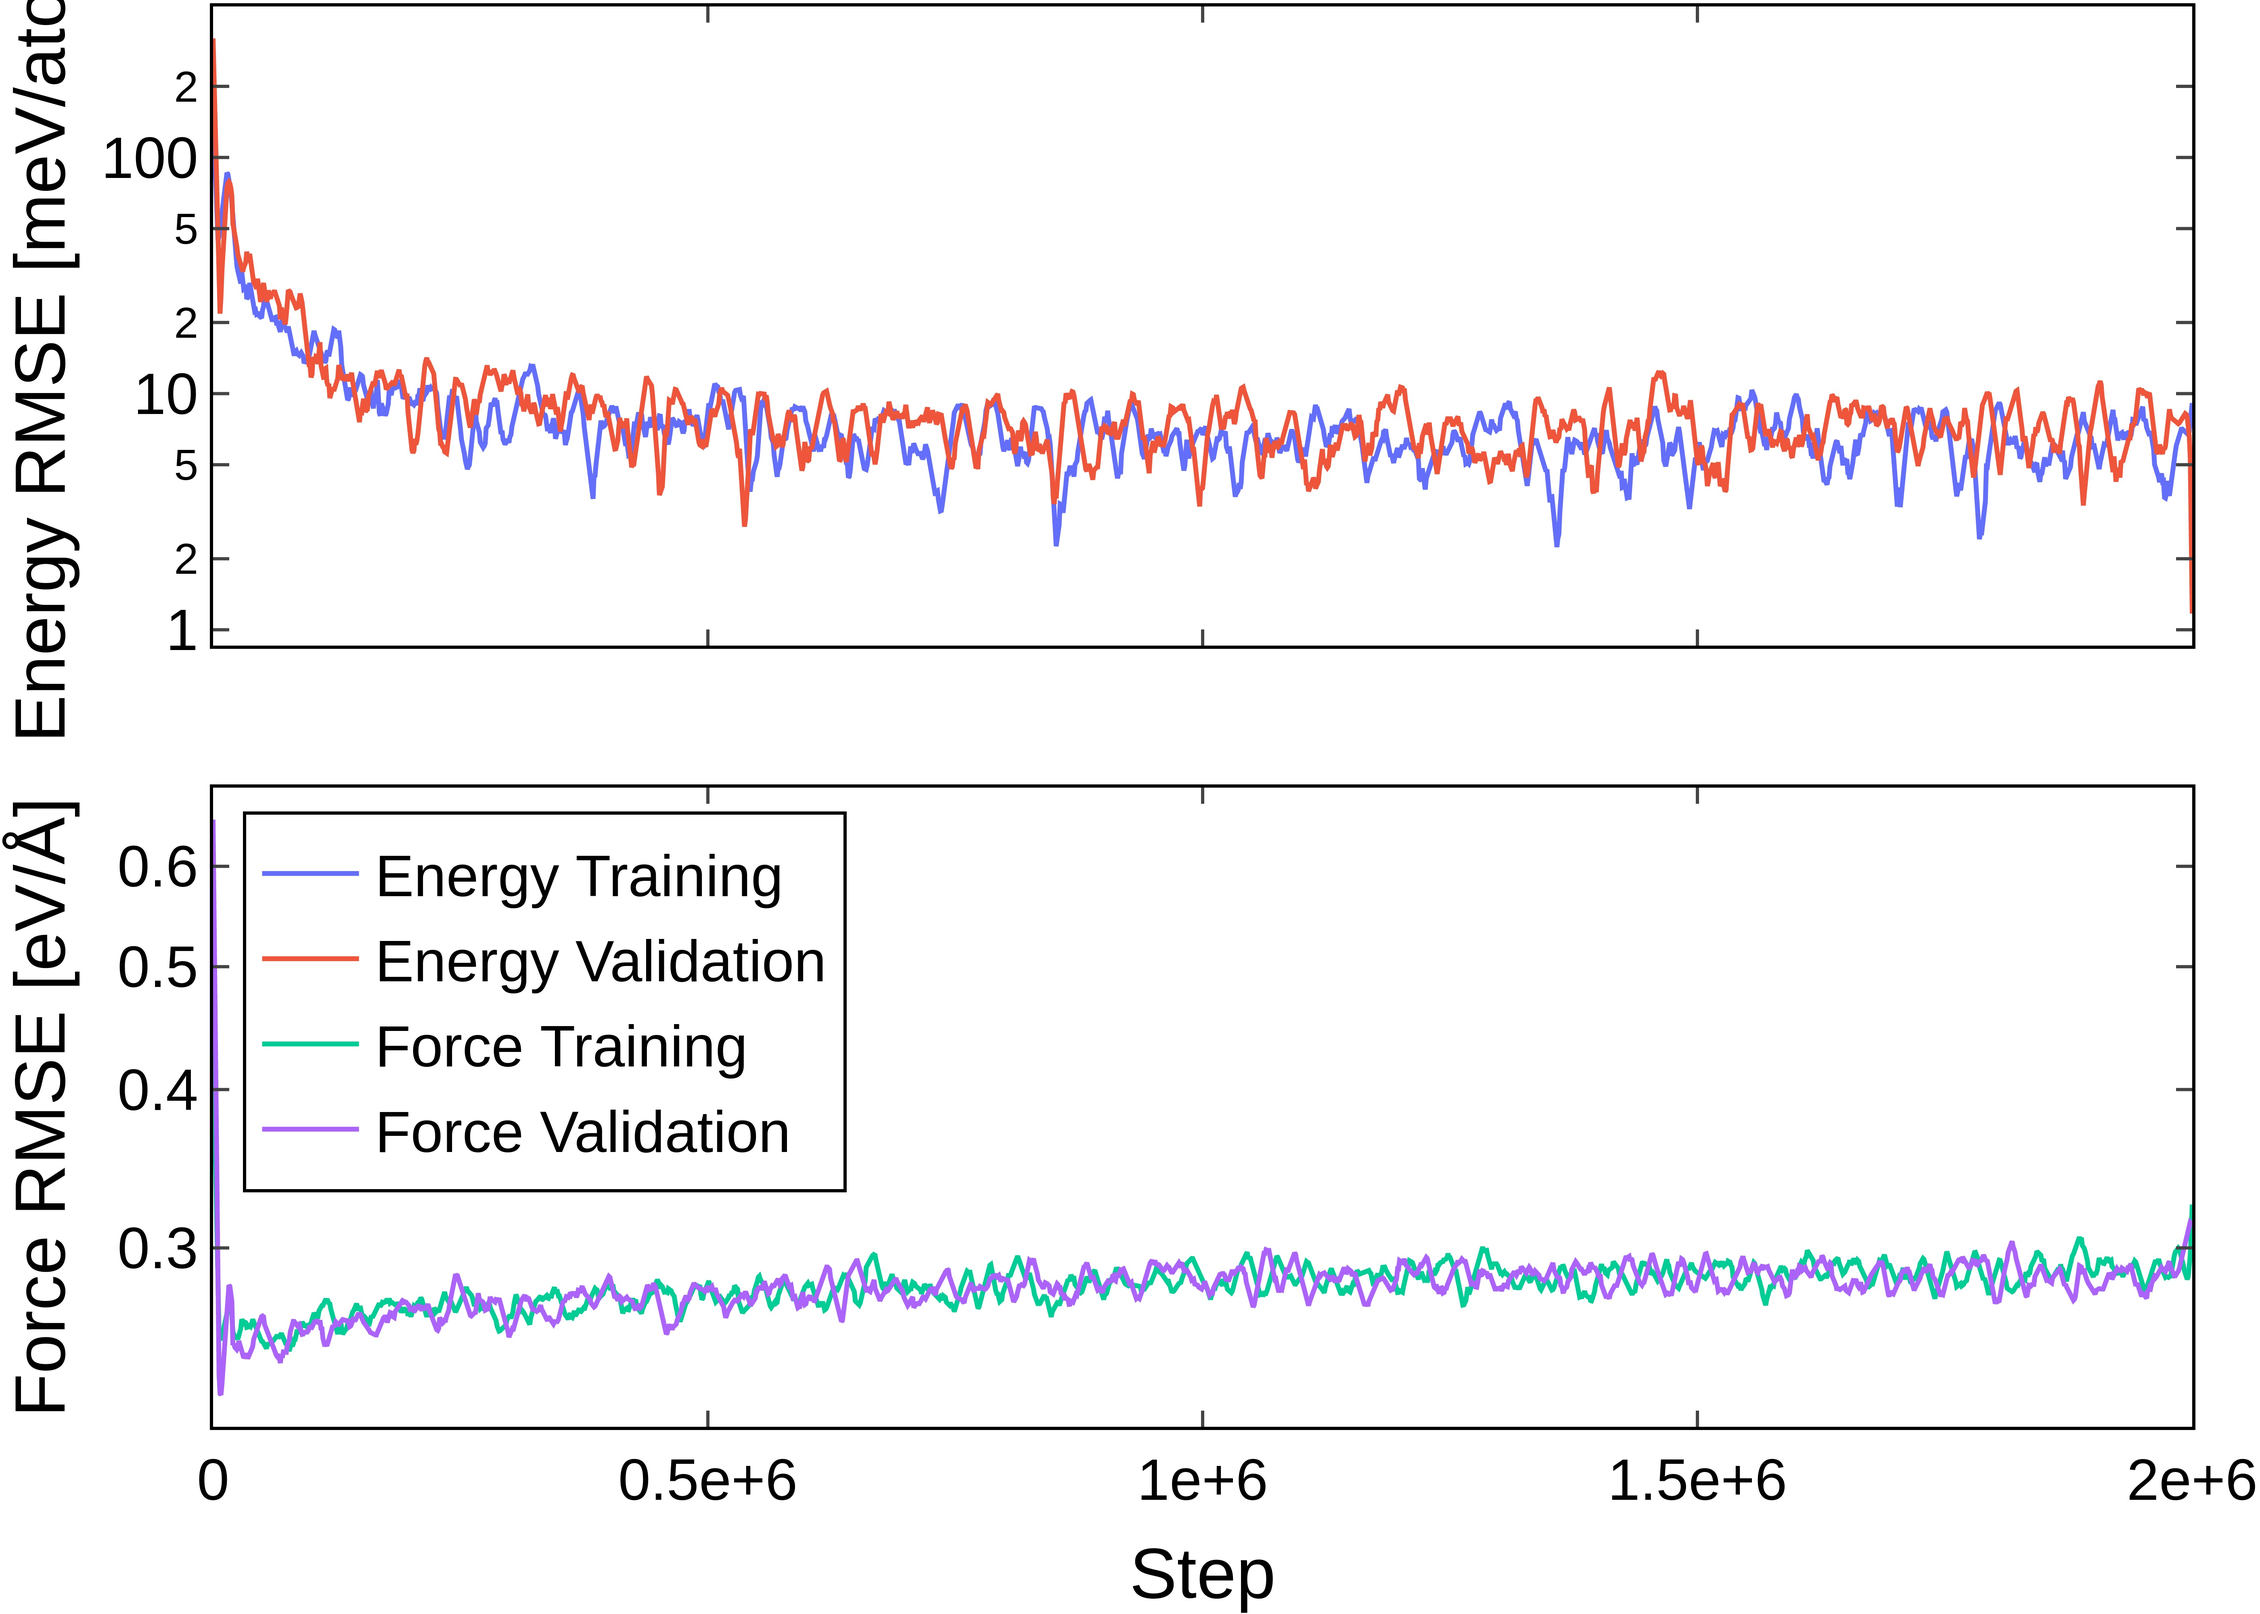
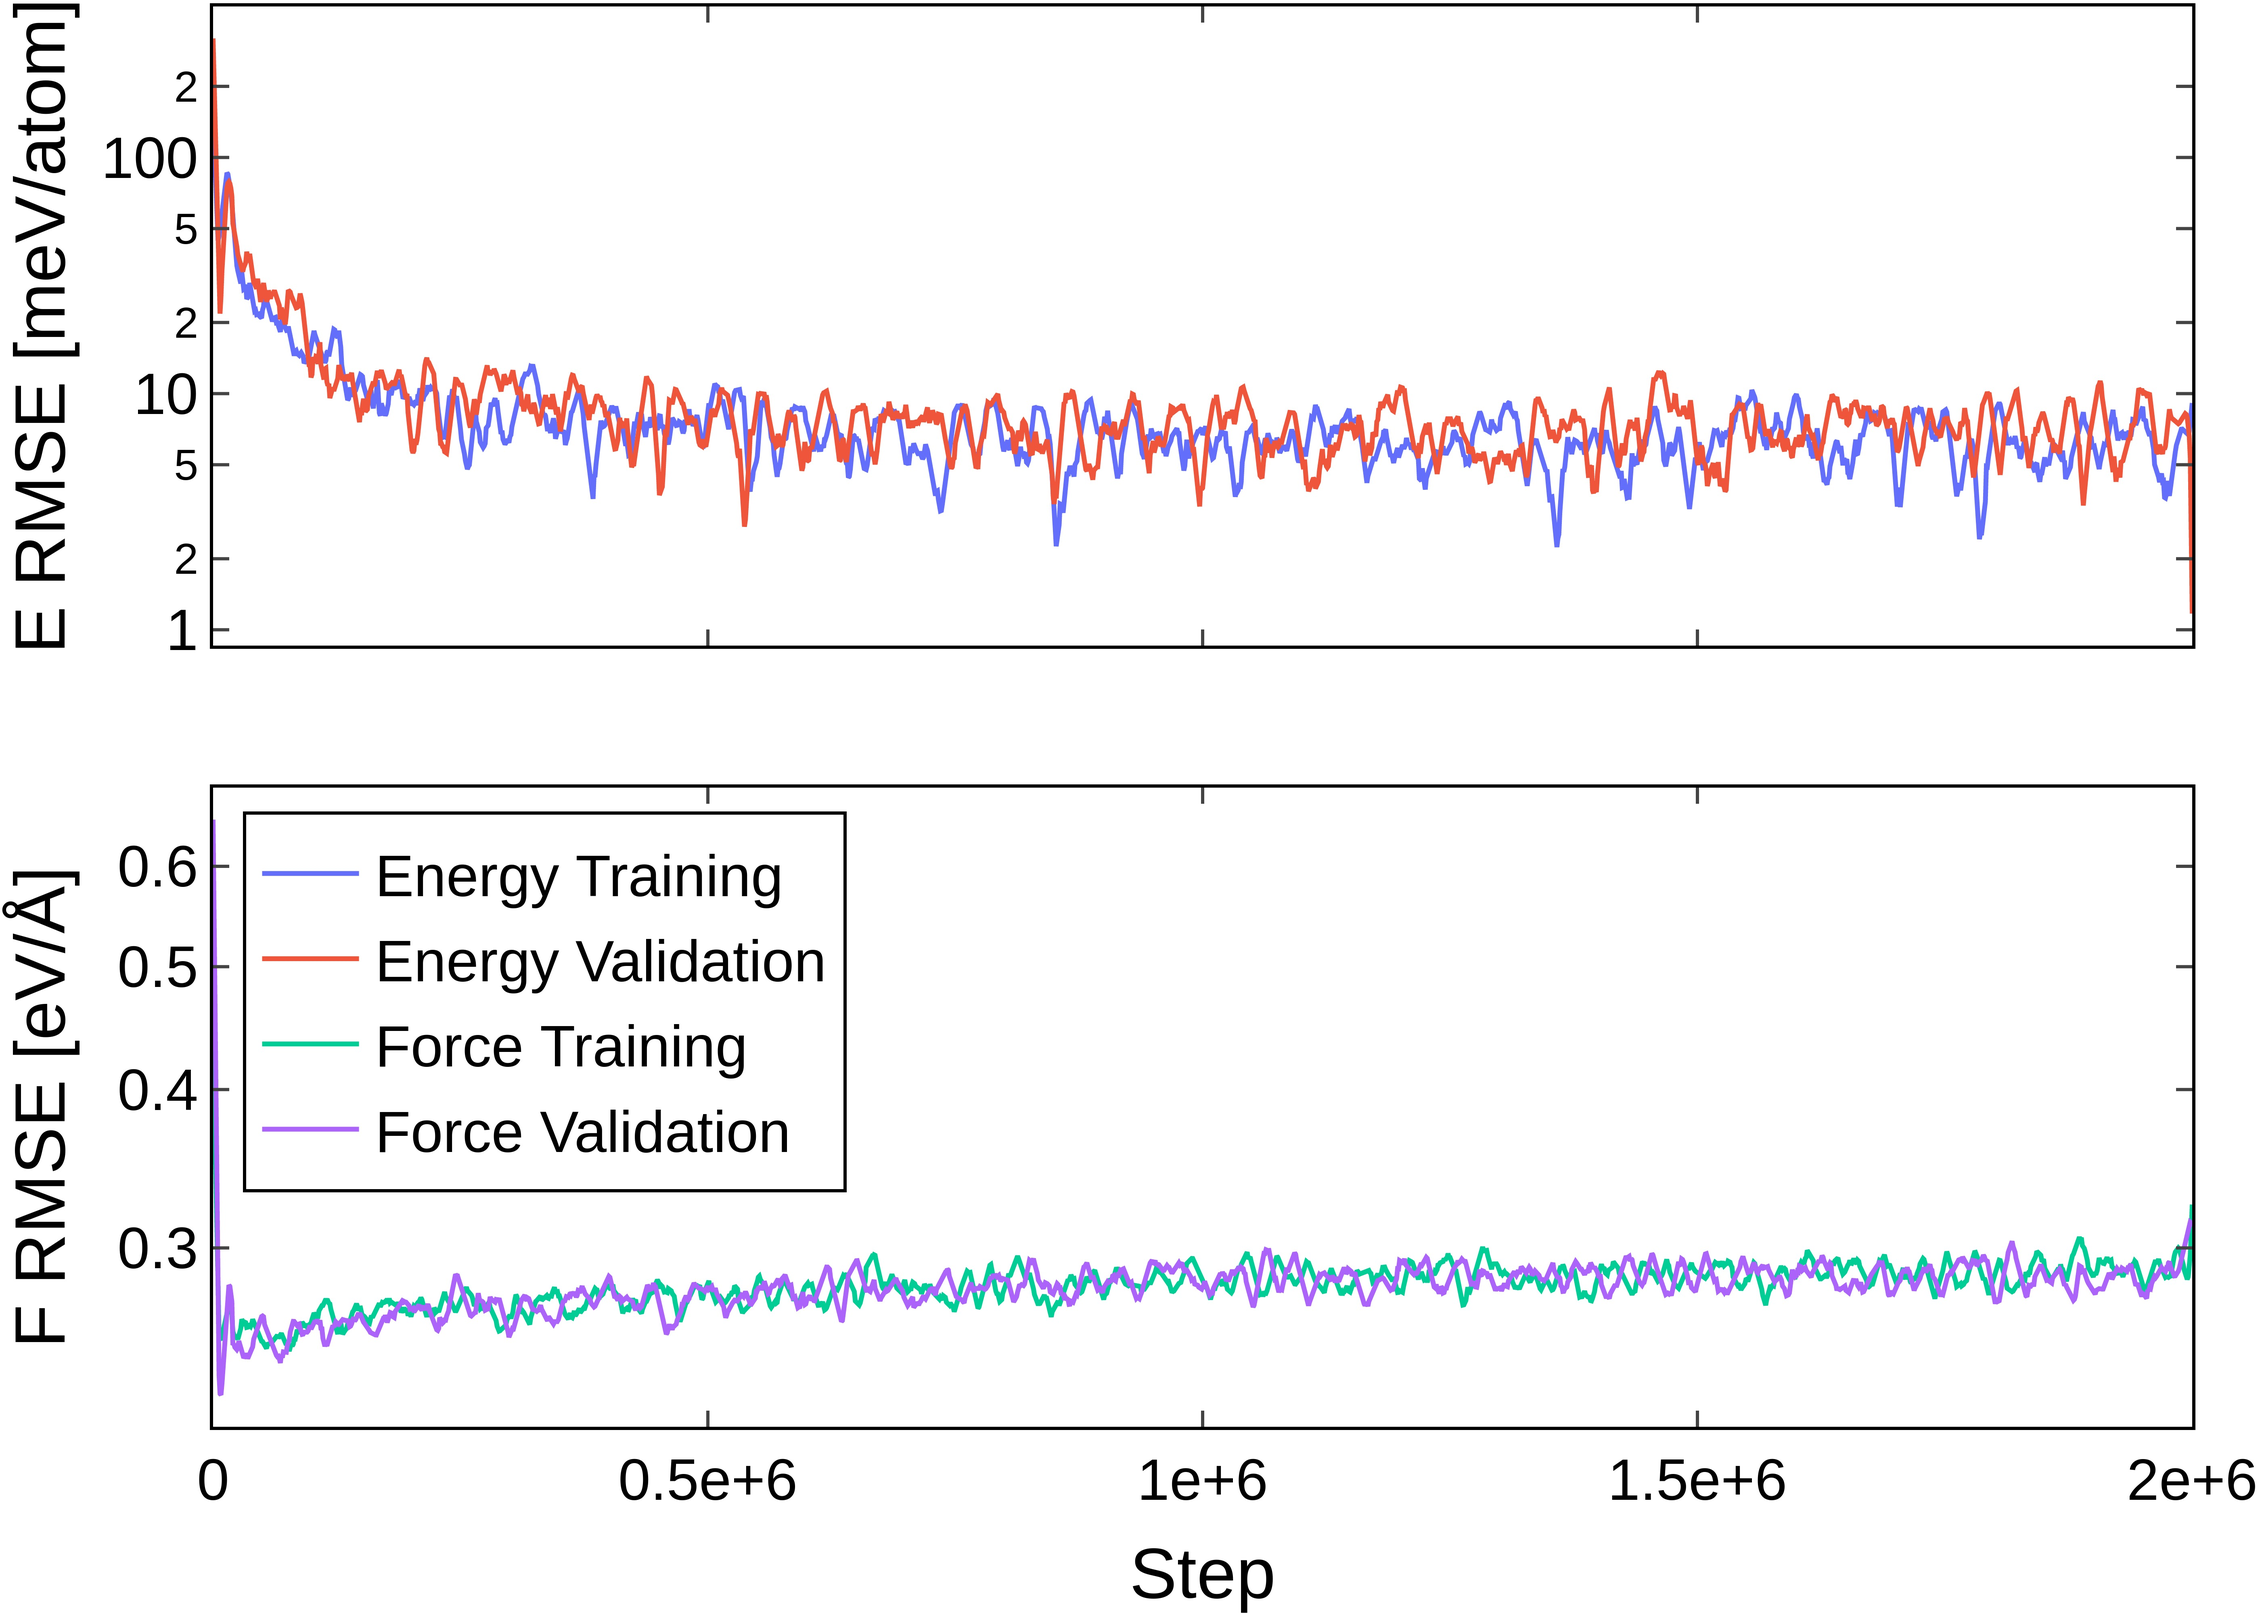
fix: titles do not fit in plots

Changed region(s): [[0.0, 0.0, 0.0312, 0.4688], [0.0, 0.5, 0.0312, 0.875]]

diff --git a/ml4md/plot_l_curves_subplots.py b/ml4md/plot_l_curves_subplots.py
@@ -44,7 +44,7 @@ def plot_l_cuves(data, output_file, savgol_window=40):
             "y_2": savgol_filter(data[:,4] * 1e3, savgol_window, 5),
             "training_color": px.colors.qualitative.Plotly[0],
             "validation_color": px.colors.qualitative.Plotly[1],
-            "y_title_text": "Energy RMSE [meV/atom]"
+            "y_title_text": "E RMSE [meV/atom]"
         },
         "force": {
             "x": data[:,0],
@@ -52,7 +52,7 @@ def plot_l_cuves(data, output_file, savgol_window=40):
             "y_2": savgol_filter(data[:,6], savgol_window, 5),
             "training_color": px.colors.qualitative.Plotly[2],
             "validation_color": px.colors.qualitative.Plotly[3],
-            "y_title_text": "Force RMSE [eV/Å]"
+            "y_title_text": "F RMSE [eV/Å]"
         }
     }
 
